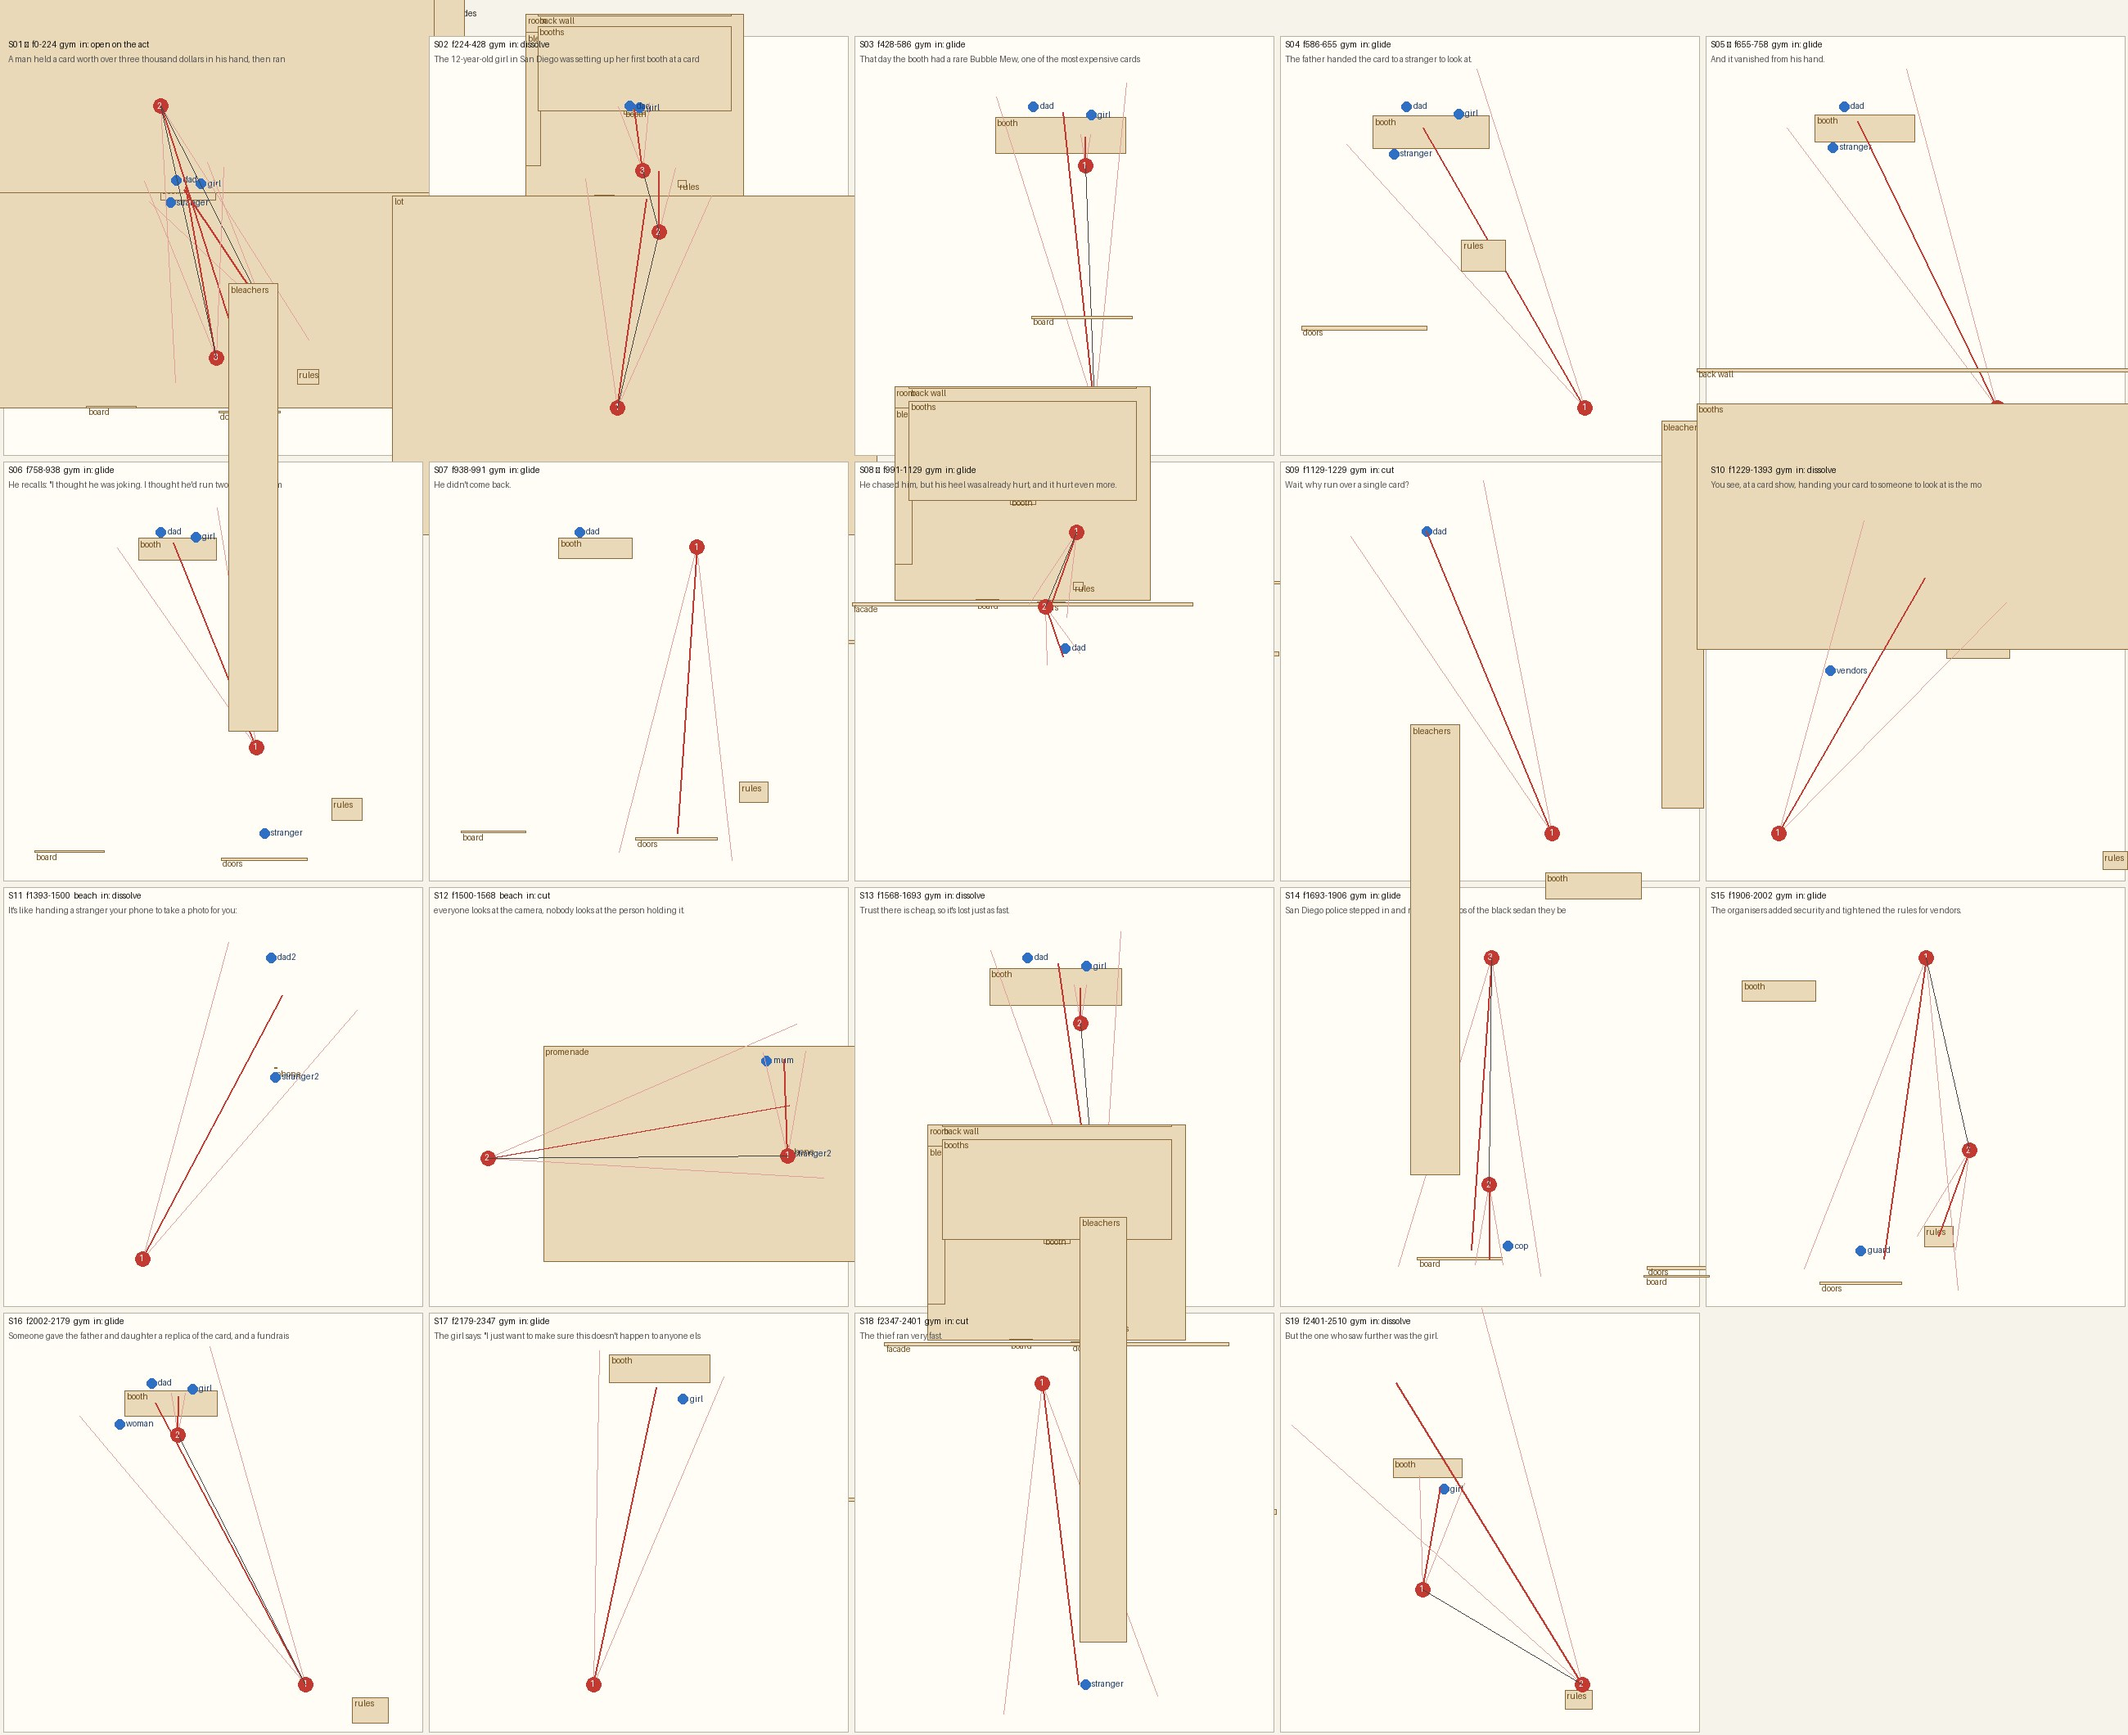
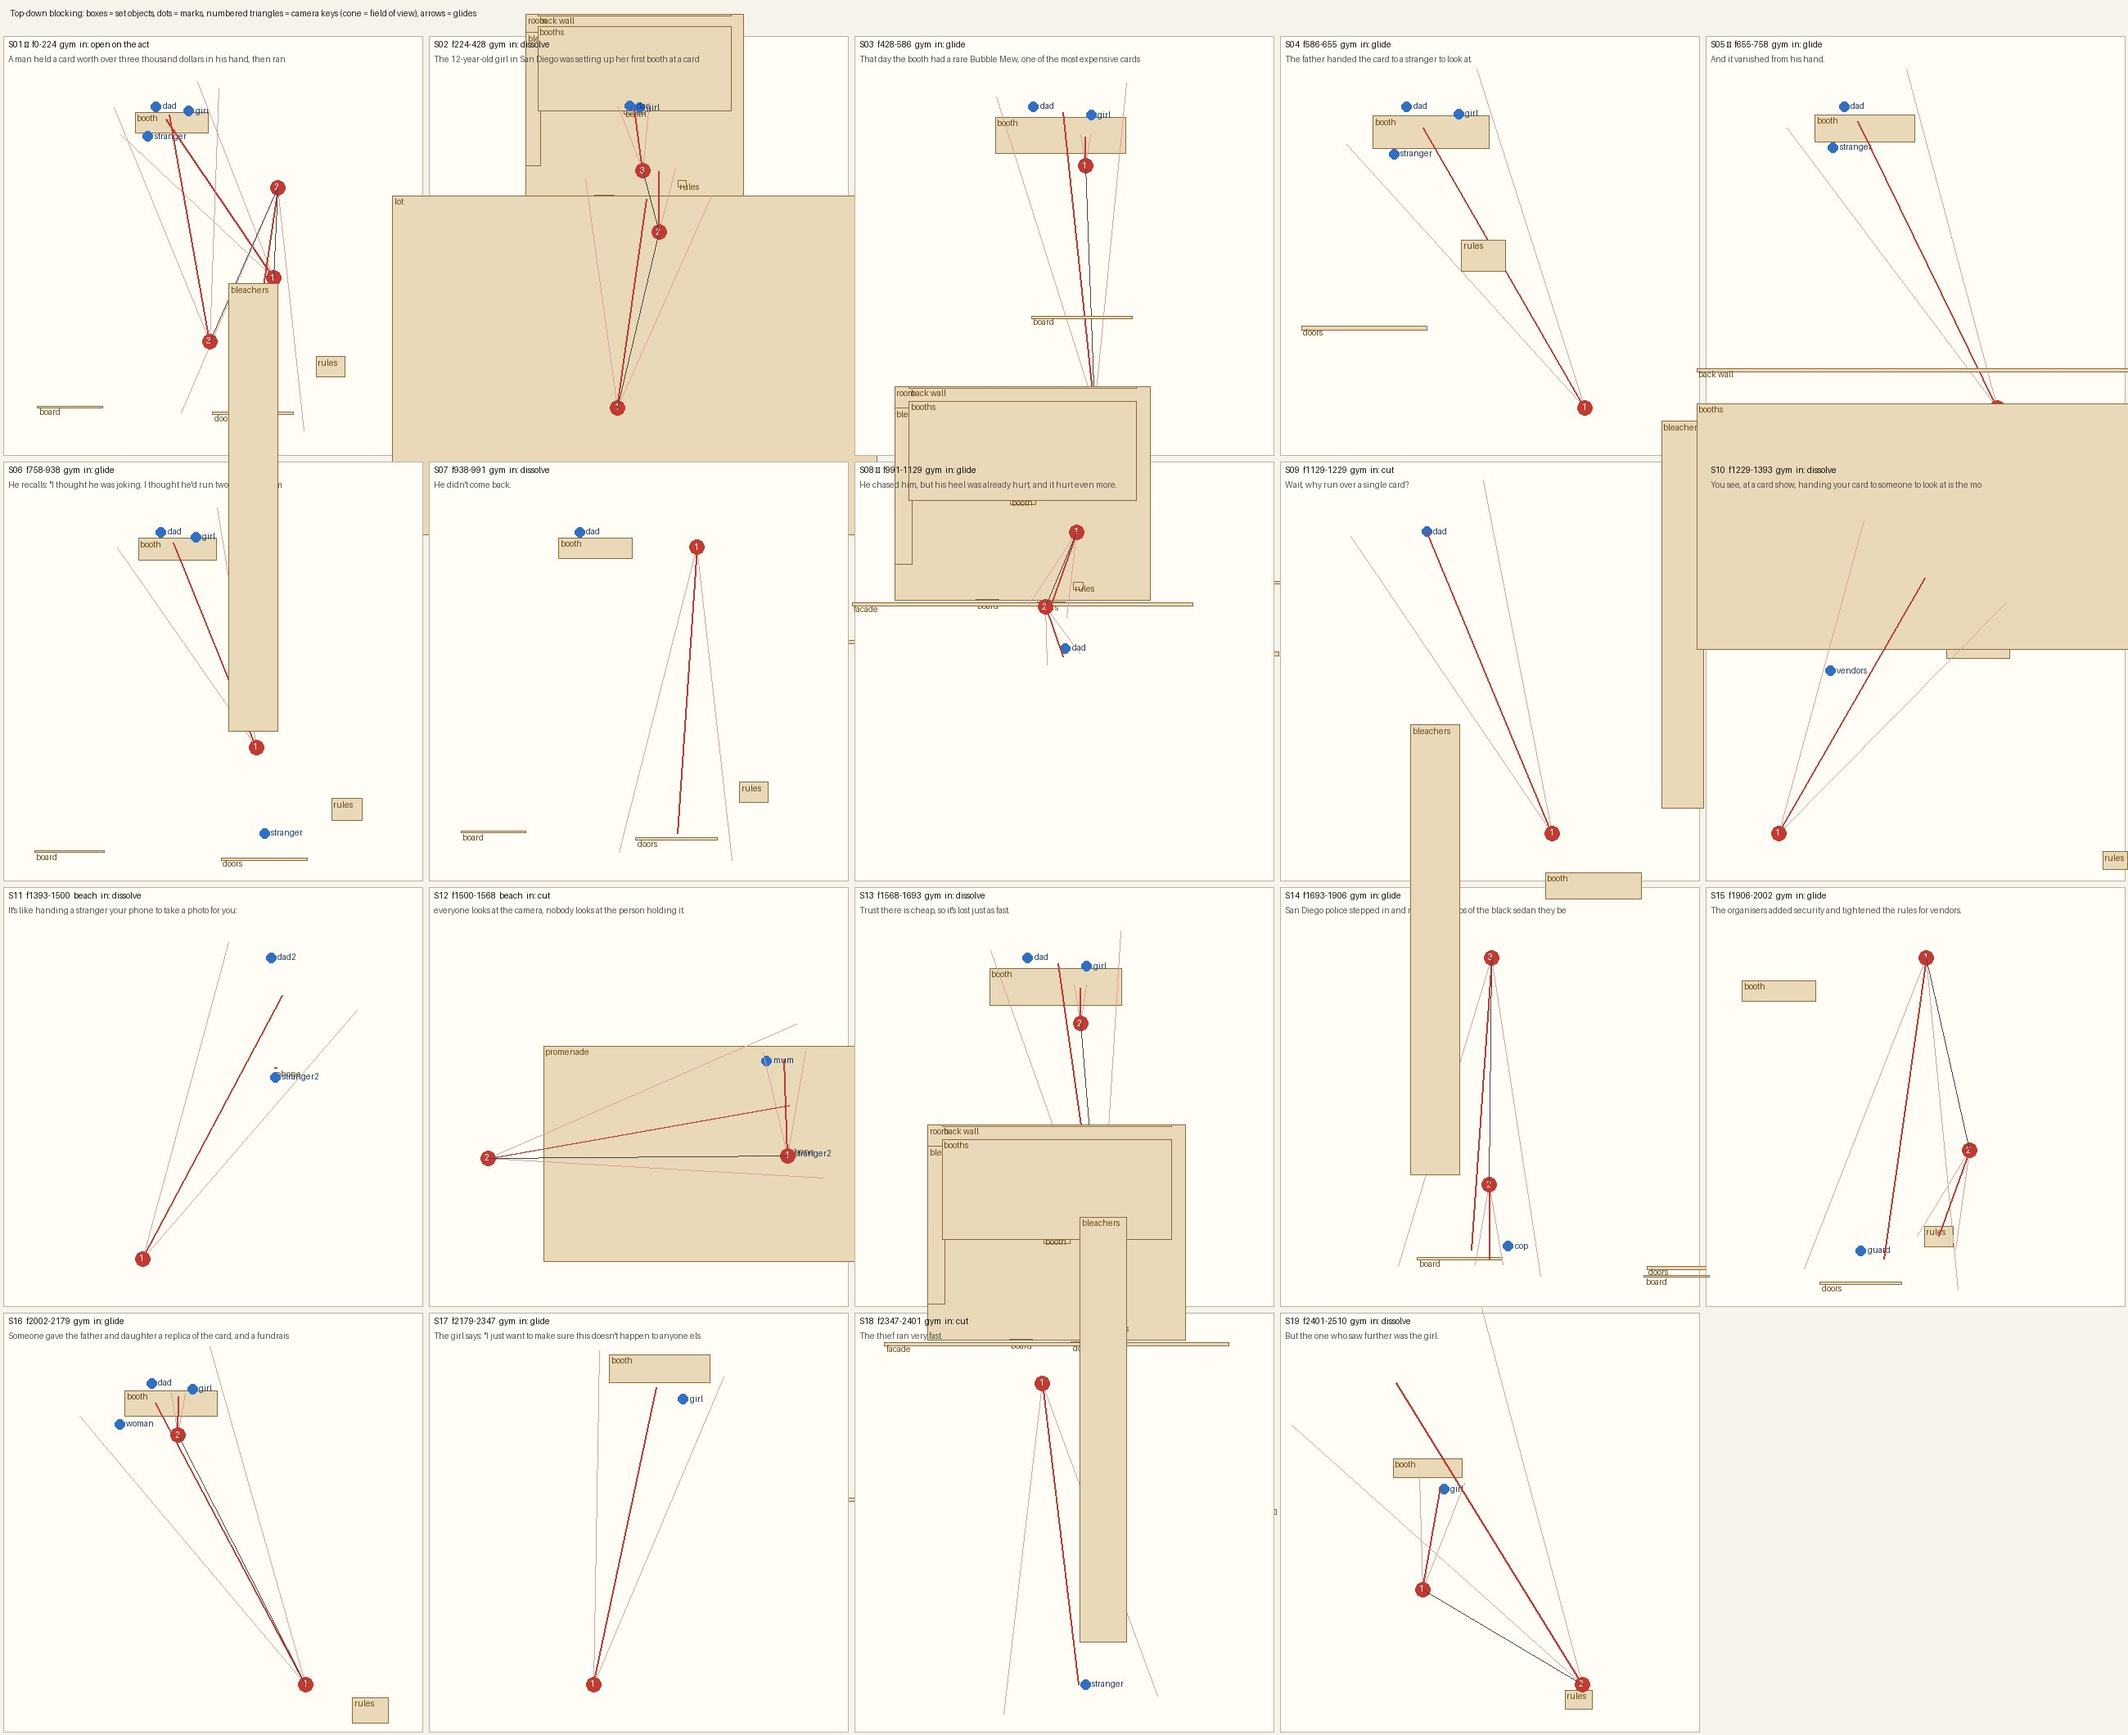
Mesa reel: flicker check (coplanar 0), hook turns on the spot to the doors, S07 dissolves in; notes

Changed region(s): [[0.0, 0.0, 0.2181, 0.2491]]

diff --git a/videos/mira-mesa-bubble-mew/mkplan.py b/videos/mira-mesa-bubble-mew/mkplan.py
@@ -104,7 +104,7 @@ scene(id="S01", hero=True, f=[0, 224], set="gym", light="day",
   action="f0-96 he tilts the case to the light, admiring (two small tilts, f20 and f60); dad's palm stays open; f44 title $3,000+ ('hơn ba nghìn đô' f44-67); f100 his eyes slide to the doors; f103 ('chạy' f103) he spins and bolts: one-frame turn to the side view, a sprint at 4.5 m/s toward the doors with speed lines; his hip clips the table's left corner as he spins: the three top-loaders slide off and fall to the floor (f106-124) and lie there; f185 he hits the doors' push bar, they fly open; f137-183 'ngay trong buổi bán thẻ đầu tiên của hai cha con': the camera settles back on dad and girl behind their table, the FIRST SHOW! sign between them, faces from smile to shock (f150).",
   acting="Stranger: polite admiring smile -> sly glance -> sprint. Dad: proud smile, palm out -> frozen. Girl: beaming -> shock.",
   cams=[kf(0, TRIO, az=34, el=-10, fov=44, title=True, push=0.0005, why="the stranger with the card at their table, all three full body"),
-        k(104, [-0.9, 1.6, -1.8], [1.6, 1.0, 6.0], 50, glide=26, push=0.0, why="whip after him: the run to the doors"),
+        k(104, [2.6, 1.7, 2.6], [1.8, 1.1, 8.0], 50, glide=22, push=0.0, why="whip after him: the run to the doors"),
         kf(150, body(DAD) + body(GIRL, True) + TABLE, az=10, el=-8, fov=42, glide=30, push=0.0012, why="father and daughter at their first booth, faces falling")],
   kicks=[[103, 0.5], [185, 0.35]],
   marks=[{"who": "stranger", "at": STR, "view": "front then side running", "pose": "case held up f0-102; sprint f103-170", "expr": "smile -> grin"},
@@ -202,12 +202,12 @@ scene(id="S07", f=[938, 991], set="gym", light="day",
   vo="Anh ta không quay lại.",
   gloss="He didn't come back.",
   spine=3, viewer="The doors swing shut and settle. Nobody comes back.",
-  **{"in": {"type": "glide", "from": "S06"}, "out": {"type": "glide", "to": "S08"}},
+  **{"in": {"type": "dissolve", "n": 6, "from": "S06", "note": "a few seconds later"}, "out": {"type": "glide", "to": "S08"}},
   build="the doors.",
   blocking="Nobody in the doorway; dad in the foreground at the booth.",
   action="f938-975 the doors' last small swings, settling shut at f975; locked frame; f960 dad's smile drops.",
   acting="Dad: smile -> dawning worry.",
-  cams=[kf(938, DOORS + [[2.0, 2.6, 8.0]], az=176, el=-2, fov=36, glide=22, push=0.002, why="locked on the empty doors")],
+  cams=[kf(938, DOORS + [[2.0, 2.6, 8.0]], az=176, el=-2, fov=36, push=0.002, why="locked on the empty doors")],
   kicks=[], marks=[{"who": "dad", "at": DAD, "view": "front", "pose": "standing", "expr": "nervous"}],
   subjects=[{"n": "doors", "p": [2.0, 1.2, 8.0], "f": [960, 990]}],
   physics="the doors settle shut (amplitude under 1 deg by f975).", light_mood="bright, still.", sound="the doors' last creaks f940, f958; then hall murmur only.",

diff --git a/videos/mira-mesa-bubble-mew/notes.md b/videos/mira-mesa-bubble-mew/notes.md
@@ -20,6 +20,8 @@ Composition `MesaReel` · code `src/videos/mesa/` · assets `public/mesa/`
 - Sweep fixes before v1: cameras behind the back wall (S01 whip, S06) and outside the building (S08's second key, S10, the S19 crane) re-keyed inside the sets; S06 re-staged from the doors (dad laughs at the lens); the S08 camera passes out through the open doorway and the doors stay held open; S09 became a hard cut (the glide passed through a palm); the sedan moved in line with the doors (bay at x 4.2, z 24.4) and the cars cleared from the school-front view; the easel's front legs crossed the card (now posts behind it); the card close-ups look down so the girl's body isn't the background; the notice board's frame covered the cork and the flyer; the officer steps aside after pinning; the jar moved off the cash tin; court keys made smaller and translucent; a shopper beside the lens moved; a palm moved out of the beach side shot; the dark knobs on the POV arms removed.
 - Stills while another session was mid-edit on the Retford reel (its half-rewritten files broke the shared bundle): `scripts/stills.mjs` now takes `ENTRY=` (default unchanged), and an ignored `out/entry_mesa.tsx` registers only this reel.
 
+- Flicker check: `[coplanar] 0`; 4 short runs over 405 frames, all camera motion after looking at the frames: f164-166 and f944-946 were real problems (a swing back over empty floor; a 180-degree whip across the hall), so the hook now turns on the spot to the doors and S07 dissolves in (6 f); f554-556 (the pull back from the card past the girl) and f1034-1036 (out through the doorway) pass as motion.
+
 ### Open
 - Seen only as stills: the run, the top-loaders' fall, the doors' swing and settle, the limp's lurches, the sedan backing out, the tag's pendulum, the hand-overs in S10, the bills dropping into the jar: check in motion.
 - The render needs the whole project to bundle: if the Retford session's files are still mid-edit when you render, `render.command` will fail to bundle until that session commits working files.

diff --git a/videos/mira-mesa-bubble-mew/direction.md b/videos/mira-mesa-bubble-mew/direction.md
@@ -89,7 +89,7 @@ Three hard cuts (S09, the freeze on "Khoan"; S12, the phone POV; S18, the far lo
 | f | move | pos | look | fov | push %/f | blur px | why |
 |---|---|---|---|---|---|---|---|
 | 0 | open | [2.505, 1.814, 4.821] | [-0.118, 0.986, 0.933] | 44 | 0.05 | 0 | the stranger with the card at their table, all three full body |
-| 104 | glide 26 f | [-0.9, 1.6, -1.8] | [1.6, 1, 6] | 50 | 0 | 0 | whip after him: the run to the doors |
+| 104 | glide 22 f | [2.6, 1.7, 2.6] | [1.8, 1.1, 8] | 50 | 0 | 0 | whip after him: the run to the doors |
 | 150 | glide 30 f | [0.931, 1.469, 6.381] | [-0.05, 0.675, 0.819] | 42 | 0.12 | 0 | father and daughter at their first booth, faces falling |
 
 - Kicks (7 f): f103 strength 0.5; f185 strength 0.35.
@@ -221,7 +221,7 @@ Three hard cuts (S09, the freeze on "Khoan"; S12, the phone POV; S18, the far lo
 ### S07 · 0:31.3-0:33.0 · f938-f991 · "Anh ta không quay lại."
 - Gloss: He didn't come back.
 - Spine link: 3. Viewer must get: The doors swing shut and settle. Nobody comes back.
-- In: glide. Out: glide.
+- In: dissolve 6 f (a few seconds later). Out: glide.
 - Set: gym. Light: day.
 - Build: the doors.
 - Blocking: Nobody in the doorway; dad in the foreground at the booth.
